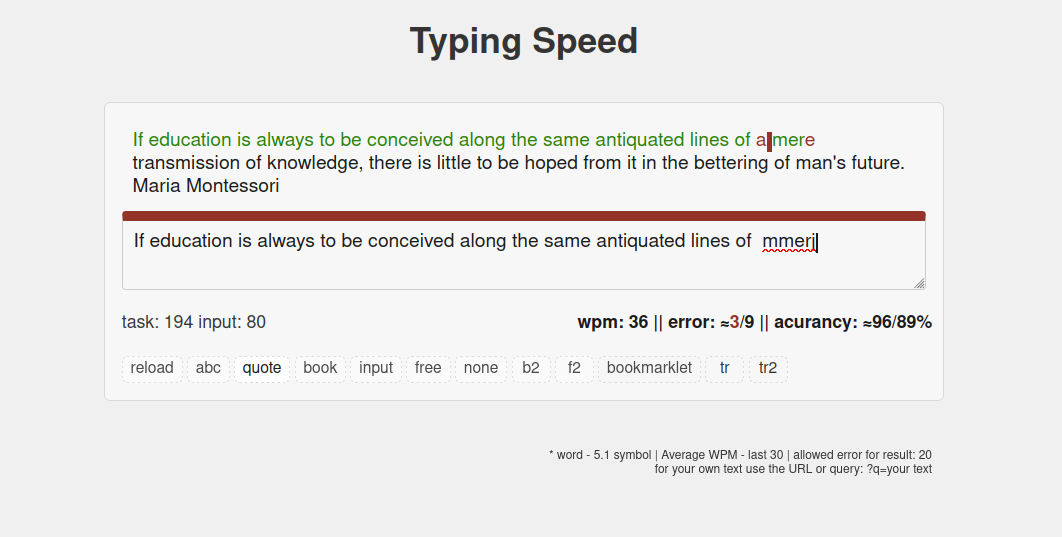
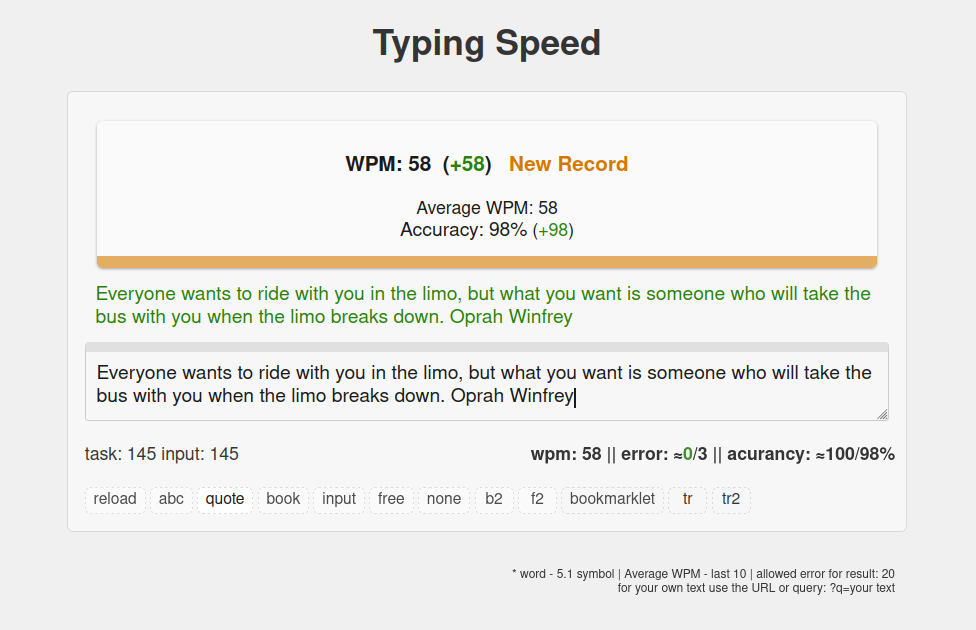
update

diff --git a/projects/typing-speed-14/script.js b/projects/typing-speed-14/script.js
@@ -912,7 +912,7 @@ document.getElementById("text").style.borderTop = "9px solid var(--d2)";
 
 
 
-let acurancyTotal = 'total';
+let acurancyTotal = 0;
 if(/*answerArr.length == letters.length&&*/mode != 'free'&&mode != 'f2'){
 
 acurancy = error * 100 / answerArr.length;
@@ -935,7 +935,7 @@ function scrollTo(){
 document.getElementById("scrollTo").scrollIntoView(true);
 }*/
 
-acurancyTotal = '';
+
 
 
 
@@ -1025,16 +1025,16 @@ wpmProgress = ' (<span class="green">+'+wpmProgress+'</span>)';
 
 
 
-var acurancyProgress = "0";
+var acurancyProgress = 0;
 var prevAcurancy = localStorage.getItem("prevAcurancy");
-localStorage.setItem("prevAcurancy", acurancy);
+localStorage.setItem("prevAcurancy", acurancyTotal);
 
 if(prevAcurancy == null ||prevAcurancy == Infinity||prevAcurancy == NaN){ prevAcurancy =  0; }
-acurancyProgress = acurancy - prevAcurancy;
+acurancyProgress = acurancyTotal - prevAcurancy;
 if(acurancyProgress < 0){
-acurancyProgress = ' (<span class="red">'+acurancyProgress+'</span>)';
+acurancyProgress = ' (<span class="red">' + acurancyProgress + '</span>)';
 }else{
-acurancyProgress = ' (<span class="green">+'+acurancyProgress+'</span>)';
+acurancyProgress = ' (<span class="green">+' + acurancyProgress + '</span>)';
 }
 
 
@@ -1072,17 +1072,17 @@ printMsgWin = '';
 
 let winMsg = `
 
-<div class="block bg3 padding2 margin2 msg shadow tCenter borderRadius2" style="margin-bottom: 10px; border-bottom: 10px solid  color-mix(in srgb, var(--${printMsgWinColor}) 50%, transparent);">
+<div class="bg3 padding2 margin2 msg shadow tCenter borderRadius2" style="margin-bottom: 5px; border-bottom: 10px solid  color-mix(in srgb, var(--${printMsgWinColor}) 60%, transparent);">
 <!--<b class="${printMsgWinColor} padding2">${printMsgWin}</b>-->
-<div class="pre"><span title="word per minute" style="color: var(--c3);">WPM: ${wpm}</span> ${wpmProgress} ${recordMsg}</div>
-<span class="medium"><span title="WPM Average last ${wmpAverageLimit}">Average WPM: ${WPMaverage} ${wpmAverageProgress}</span></span><br>
-<span class="medium"><span class="medium">Acurancy: ≈<span>${acurancy}</span>%</span> ${acurancyProgress}</span><br>
+<div class="pre"><h3><span title="word per minute" style="color: var(--c3);">WPM: ${wpm}</span> <span title="difference with the previous">${wpmProgress}</span> ${recordMsg}</h3></div>
+<span class="normal"><span title="WPM Average last ${wmpAverageLimit}">Average WPM: ${WPMaverage} ${wpmAverageProgress}</span></span><br>
+<span class="normal" title="Current accuracy, total"><span class="medium">Accuracy: <span>${acurancyTotal}</span>%</span> ${acurancyProgress}</span><br>
 </div>
 </div>`;
 
 
 document.getElementsByClassName("win")[0].innerHTML = winMsg;
-document.getElementsByClassName("win")[1].innerHTML = winMsg;
+//document.getElementsByClassName("win")[1].innerHTML = winMsg;
 
 }else {
 document.getElementsByClassName("win")[0].innerHTML = '';
@@ -1199,6 +1199,7 @@ document.getElementById("topWords").innerHTML =
 answerArr = [];
 dateArr = [];
 secArr = [];
+
 
 document.getElementById("text").style.borderTop = "9px solid var(--d2)";
 

diff --git a/js/main.js b/js/main.js
@@ -1,4 +1,4 @@
-// Main js v.6.3.5
+// Main js v.6.3.7
 // For navigation, themes, etc
 
 // Settings v.1.0.0
@@ -51,10 +51,17 @@ This is necessary to improve the site.
 "confValueVariant":["18", "19", "20", "21"],
 },
 {
-"confTitle":"Icons on off",
-"confDescription":"Enable Disable Icons.",
-"confName":"confIconStatus",
+"confTitle":"Hide link extensions",
+"confDescription":"Hides extensions in links. Example: /blog.html to /blog. This is to make the PWA (Website as an App) work.",
+"confName":"confHideLinkExt",
 "confValueDefault":"off",
+"confValueVariant":["on", "off"],
+},
+{
+"confTitle":"Second Navigation",
+"confDescription":"Second navigation (JS) over the current navigation. To improve where it is bad",
+"confName":"confMenu",
+"confValueDefault":"on",
 "confValueVariant":["on", "off", "random"],
 },
 {
@@ -65,13 +72,6 @@ This is necessary to improve the site.
 "confValueVariant":["on", "off", "random"],
 },
 {
-"confTitle":"Hide link extensions",
-"confDescription":"Hides extensions in links. Example: /blog.html to /blog. This is to make the PWA (Website as an App) work.",
-"confName":"confHideLinkExt",
-"confValueDefault":"off",
-"confValueVariant":["on", "off"],
-},
-{
 "confTitle":"Background picture",
 "confDescription":"Background picture.",
 "confName":"confBg",
@@ -79,10 +79,10 @@ This is necessary to improve the site.
 "confValueVariant":["on", "off"],
 },
 {
-"confTitle":"Second Navigation",
-"confDescription":"Second navigation (JS) over the current navigation. To improve where it is bad",
-"confName":"confMenu",
-"confValueDefault":"on",
+"confTitle":"Icons on off",
+"confDescription":"Enable Disable Icons.",
+"confName":"confIconStatus",
+"confValueDefault":"off",
 "confValueVariant":["on", "off", "random"],
 },
 ];

diff --git a/install.html b/install.html
@@ -124,10 +124,10 @@ install, install website, PWA, WebApp, app, page, main,
 
 
 
-<button class="post padding2 margin2 borderList" onclick="startInstallPWA()"><span class="bold">Start Install (10,69 MB)</span>
+<button class="post padding2 margin2 borderList" onclick="startInstallPWA()"><span class="bold">Start Install (10,71 MB)</span>
 <span class="small block padding2">registration sw.js (service worker) and adding files to the cache. (1)</span></button>
 <div id="startInstallStatus" class="post padding2 margin2 borderList"></div>
-<button class="add-button post padding2 margin2 borderList bold green" onclick="startInstallPWA()">Install (10,69 MB) (2)</button>
+<button class="add-button post padding2 margin2 borderList bold green" onclick="startInstallPWA()">Install (10,71 MB) (2)</button>
 
 
 

diff --git a/projects/typing-speed-14/style.css b/projects/typing-speed-14/style.css
@@ -7,7 +7,7 @@ padding: 9px;
 }
 
 
-.win { font-size: calc(var(--fontSize) + 20%); font-weight: bold; }
+.win { font-weight: bold; }
 #stat { font-weight: bold; text-align: right; }
 
 

diff --git a/projects/typing-speed-14/index.html b/projects/typing-speed-14/index.html
@@ -115,7 +115,7 @@ project,
 
 <div class="msg2"></div>
 
-
+<div class="margin2 paddig2"></div>
 
 </main>
 
